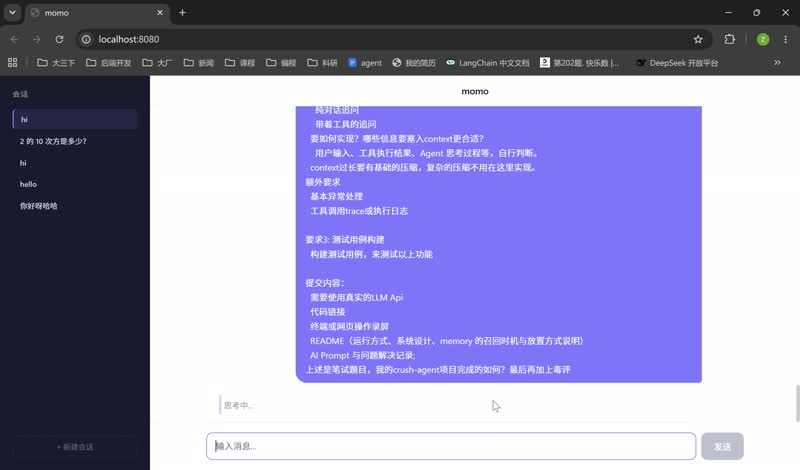
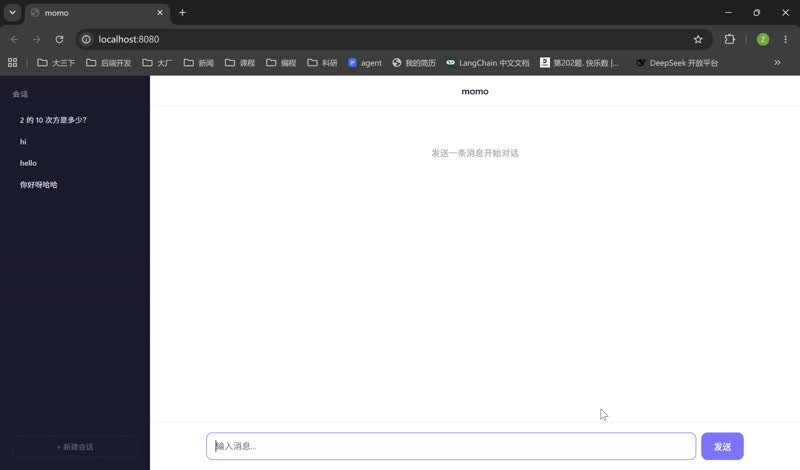
恢复原始视频，README 放截图+下载链接

diff --git a/README.md b/README.md
@@ -4,11 +4,9 @@ A from-scratch AI Agent Runtime in Go, built without any agent frameworks. Suppo
 
 ## Demo
 
-<a href="demo/momo-demo.mp4">
-  <img src="demo/thumbnail.jpg" alt="点击播放演示视频" width="100%">
-</a>
+<img src="demo/thumbnail.jpg" alt="momo AI Agent Runtime 演示截图" width="100%">
 
-> 点击图片观看演示视频（momo 的实时流式响应、工具调用和多会话管理）。
+> 📥 [下载演示视频 (90MB)](demo/momo-demo.mp4) — 展示 momo 的实时流式响应、工具调用和多会话管理功能。
 
 ## Architecture
 